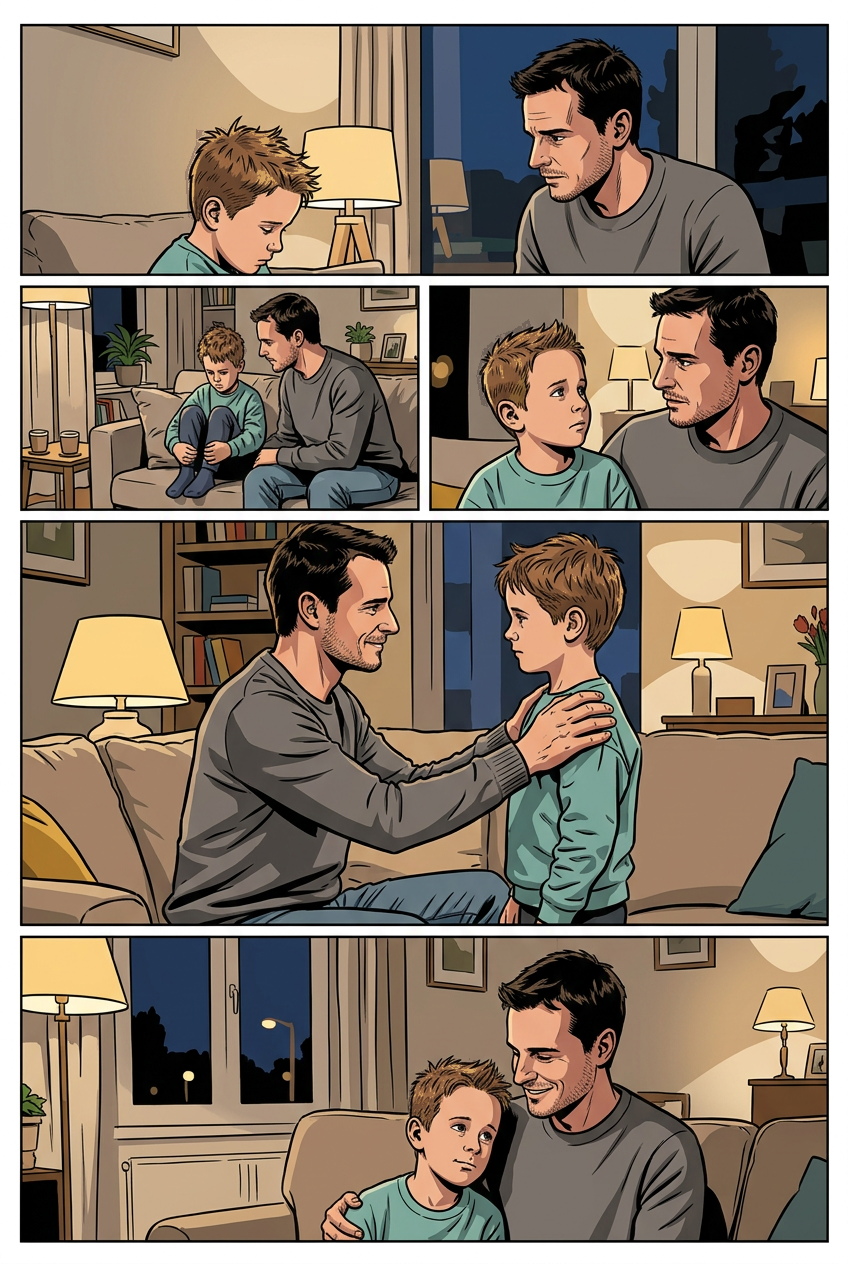
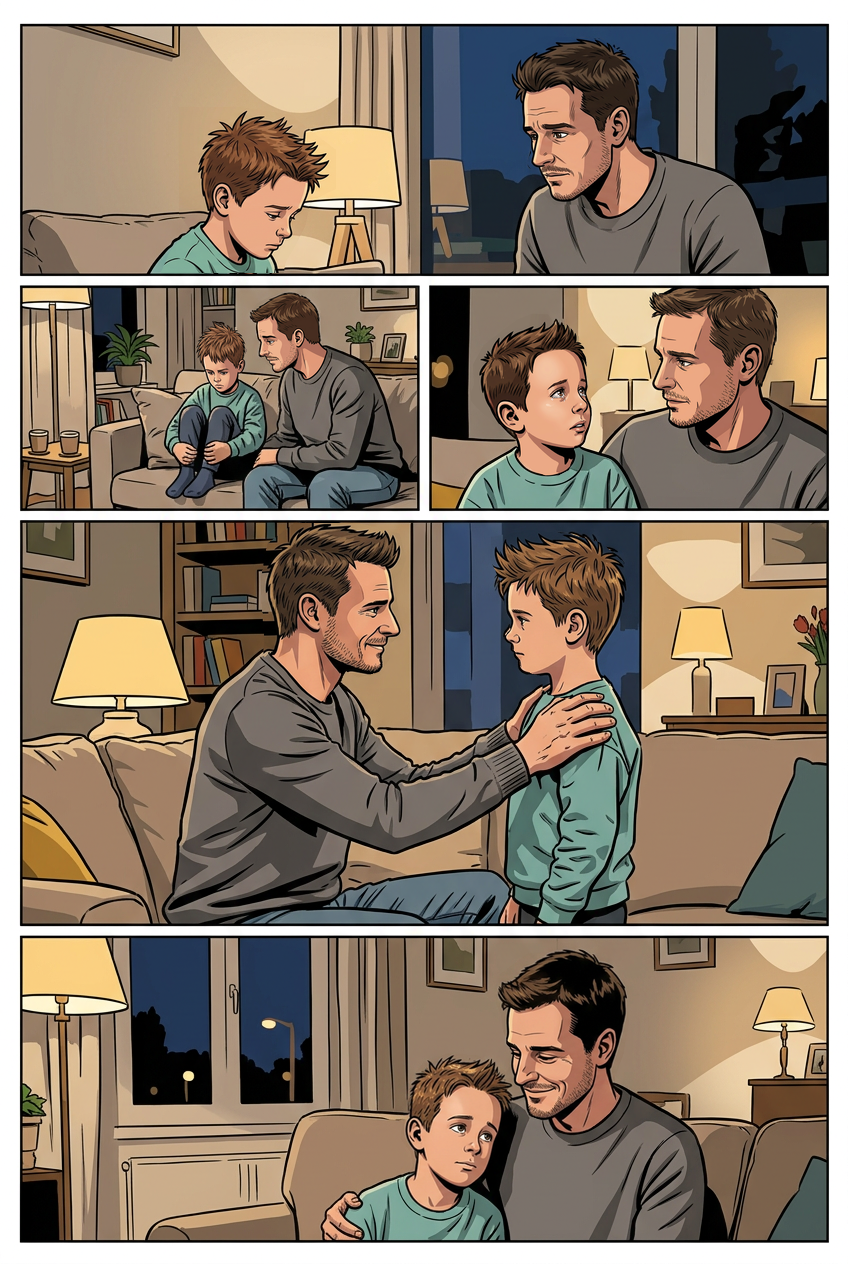
Reprendre les portraits pere-fils des cinq cases de la planche 15

diff --git a/Planches-dessin/validation/REVUE-COUVERTURE.md b/Planches-dessin/validation/REVUE-COUVERTURE.md
@@ -21,13 +21,13 @@ Les huit recadrages exacts sont dans `revue-couverture/<Prénom>-couverture.png`
 |---|---:|
 | Planches vues en ensemble | 30 |
 | Vignettes réellement inventoriées | 153 |
-| Premières reprises intégrées, encore à relire | 74 |
+| Premières reprises intégrées, encore à relire | 79 |
 | Corrections seulement partielles, à poursuivre | 0 |
 | Contrôles sans retouche, encore à relire | 1 |
-| Autres vignettes restant à contrôler individuellement | 78 |
+| Autres vignettes restant à contrôler individuellement | 73 |
 | Validations définitives de style et ressemblance | **0** |
 
-Les 74 vignettes ayant reçu une intervention ne sont pas 74 vignettes définitivement conformes. Le reste de la revue demandée n’est pas terminé. Le manifeste `REVUE-COUVERTURE.json` conserve une entrée et un état explicite pour chacune des 153 vignettes.
+Les 79 vignettes ayant reçu une intervention ne sont pas 79 vignettes définitivement conformes. Le reste de la revue demandée n’est pas terminé. Le manifeste `REVUE-COUVERTURE.json` conserve une entrée et un état explicite pour chacune des 153 vignettes.
 
 ## Première livraison : 26/3 et 26/6
 
@@ -277,6 +277,24 @@ Preuves : `revue-couverture/lot-p/14-AVANT-APRES.jpg`, cinq masques de ce lot et
 
 **Réserves pour la relecture transversale :** âge apparent et niveau de détail des portraits par rapport aux corps, continuité des carnations visage/membres de Nolann, manches et raccords d'épaule de Lyssandro en 14/1, contact des mains de soutien et tenues de 14/3, reconstruction du groupe et propreté des marquages de dos en 14/5. Aucun dialogue, bulle ou onomatopée ajouté. Les 78 cases encore non reprises ne sont pas réputées conformes.
 
+## Dix-septième livraison : les cinq vignettes de la planche 15
+
+Cinq premières reprises, sans validation définitive. Scène civile nocturne à Saint-Sulpice : les pulls du salon ne sont pas remplacés par les tenues de rugby de la couverture. Seuls les portraits et leurs raccords locaux sont repris.
+
+**15/1 :** Portraits locaux de Léon et Flavien : pics châtains du fils et cheveux bruns relevés/légère pilosité du père rapprochés de la couverture. Léon baisse la tête, Flavien reste attentif sans sourire de publicité. Tenues civiles vert doux/gris, lumière chaude, nuit et décor conservés hors masques.
+
+**15/2 :** Léon recroquevillé sur le canapé, honteux et regardant ses chaussettes : cheveux bouclés remplacés par les pics châtains du modèle, visage enfantin repris. Portrait spécifique de Flavien brun, moustache/barbe légère, tourné vers son fils avec attention. Deux portraits isolés intégrés après rejet du candidat complet qui aplatissait la scène. Mains sur les jambes, chaussettes, deux chocolats, corps et salon conservés hors masques.
+
+**15/3 :** Léon lève les yeux vers Flavien ; cheveux en pics châtains, yeux embués et bouche incertaine repris par portrait isolé. Flavien brun écoute avec sollicitude ; visage/pilosité repris séparément. Candidat de case entière rejeté pour déformation du cadrage et aplatissement des proportions. Tenues civiles, positions et décor hors masques conservés.
+
+**15/4 :** Visages de Flavien et Léon rapprochés des deux modèles : brun court relevé/barbe légère pour le père, pics châtains pour le fils de profil. Sourire tendre du père et écoute calme du fils conservés. Les deux mains sur les épaules et les bras, vêtements civils, canapé et décor restent ceux de la case originale hors masques.
+
+**15/5 :** Portraits père/fils locaux : brun de Flavien et pics châtains de Léon, trait et traits rapprochés de la couverture. Léon reste pensif, blotti contre son père qui lui sourit tendrement. Bras et main entourant l'enfant, tenues civiles et salon nocturne conservés hors masques.
+
+Preuves : `revue-couverture/lot-q/15-AVANT-APRES.jpg` et cinq masques. Aucun candidat de case entière n'est intégré : deux candidats rejetés (15/2–3) modifiaient les cadrages/proportions. Quatre portraits isolés les remplacent. Un premier masque de 15/1 conservait l'ancien contour derrière la tête de Léon et une partie de son ancien cou ; le périmètre tête/cou/haut du sweat a été repris jusqu'au bord bas de la case. Le masque de Flavien 15/3 a été resserré pour exclure un cadre décoratif inventé dans le portrait isolé.
+
+**Réserves transversales :** homogénéité de teinte des cheveux châtains de Léon sous la lumière chaude (excès cuivré de 15/3 atténué localement), âge/détail des visages par rapport aux corps, petits raccords de fond et de col, degré de tendresse du sourire de Flavien et lecture de ses deux mains sur les épaules en 15/4. Les deux chocolats restent visibles en 15/2 ; aucune mère/sœur n'est ajoutée, puisqu'elles sont hors champ selon le scénario. Aucun texte, bulle ni onomatopée ajouté. Il reste 73 cases à examiner individuellement, puis la relecture de continuité de toute la série.
+
 ## Contrôles techniques et audits historiques
 
 `outils/retouche/verifier_revue_couverture.py` compare les 31 PNG au début de la revue : couverture inchangée, dimensions, empreintes, absence de modification des fichiers non concernés et invariance des pixels hors masques. Il contrôle également la cohérence des états et du bilan. **Il ne mesure pas la ressemblance ou la qualité du dessin.**
@@ -285,7 +303,7 @@ Les vérificateurs des audits 13–22, comme ceux de 23–30, s’appliquent dé
 
 ## Suite obligatoire
 
-Contrôler individuellement les **78 autres vignettes**, terminer **14/2**, puis relire les premières reprises, notamment les six cases de la planche 4 et les réserves de scénario. Vérifier systématiquement chaque occurrence de Nolann et des sept autres personnages, ainsi que décors et encrage : la revue ne peut pas se limiter aux couleurs de peau/cheveux.
+Contrôler individuellement les **73 autres vignettes**, terminer **14/2**, puis relire les premières reprises, notamment les six cases de la planche 4 et les réserves de scénario. Vérifier systématiquement chaque occurrence de Nolann et des sept autres personnages, ainsi que décors et encrage : la revue ne peut pas se limiter aux couleurs de peau/cheveux.
 
 Procédure : identification au scénario → comparaison aux personnages de couverture → comparaison à la planche réaliste → correction locale → relecture en contexte de page. Les raccords cou/cheveux/mains et les tenues restent à contrôler. Aucun candidat simplement généré n’est automatiquement validé.
 

diff --git a/Planches-dessin/SUIVI-STYLE.md b/Planches-dessin/SUIVI-STYLE.md
@@ -2,7 +2,7 @@
 
 **La couverture `00-couverture-marvel.png` est désormais la seule référence de style et d’identité.** La décision utilisateur remplace la priorité V2 décrite dans l’historique ci-dessous. La couverture reste inchangée.
 
-Suivi actuel : [`validation/REVUE-COUVERTURE.md`](validation/REVUE-COUVERTURE.md) et son manifeste JSON : 153 vignettes inventoriées, 74 premières reprises, 1 contrôle sans retouche, 0 correction partielle, 78 autres contrôles individuels à faire, aucune validation définitive. Les anciennes approbations ne valent pas conformité au nouveau référentiel.
+Suivi actuel : [`validation/REVUE-COUVERTURE.md`](validation/REVUE-COUVERTURE.md) et son manifeste JSON : 153 vignettes inventoriées, 79 premières reprises, 1 contrôle sans retouche, 0 correction partielle, 73 autres contrôles individuels à faire, aucune validation définitive. Les anciennes approbations ne valent pas conformité au nouveau référentiel.
 
 ---
 
